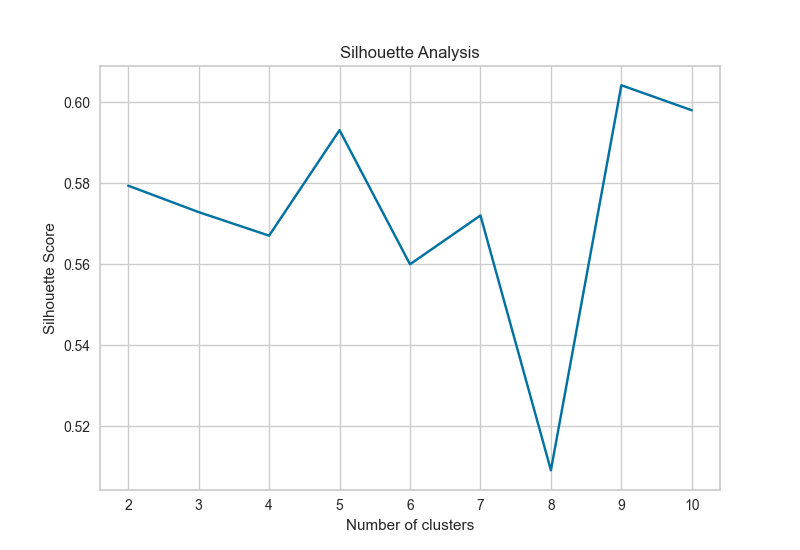
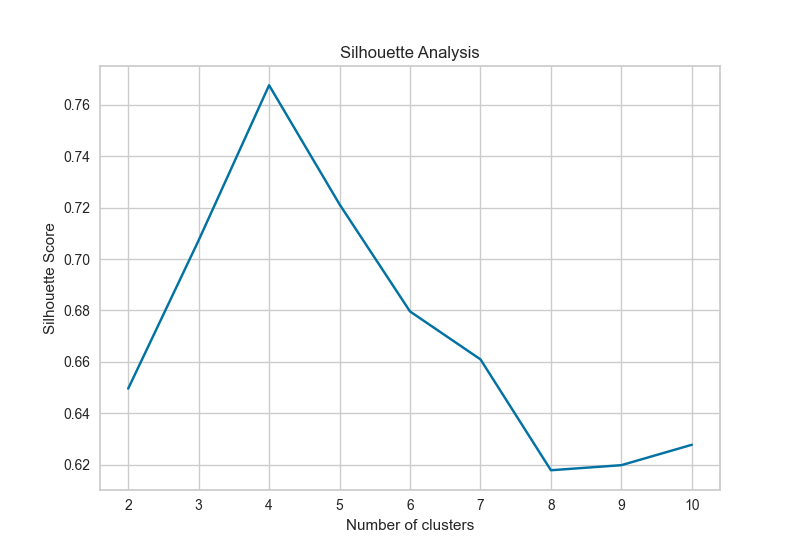
updated clustering graph

diff --git a/Code/kMean.py b/Code/kMean.py
@@ -23,6 +23,10 @@ print(processesedTrainingData)
 
 # Ad a new intensity categoory
 '''
+    'Low': lambda x: x < 1,
+    'Medium': lambda x: (1 <= x) & (x < 2),
+    'High': lambda x: 2 <= x,
+'''
 intensityCategory = {
     'very light': lambda x: x < 0.5,
     'light': lambda x: (0.5 <= x) & (x < 1),
@@ -38,7 +42,11 @@ for category, condition in intensityCategory.items():
 
 print(processesedTrainingData[['Activity, Exercise or Sport (1 hour)', 'Calories per kg', 'Intensity']])
 print (processesedTrainingData)
-
+'''
+    'Low': 2,
+    'Medium': 1,
+    'High': 0,
+    '''
 intensityMapping = {
     'very light': 1,
     'light': 2,
@@ -70,7 +78,7 @@ processesedTrainingData = processesedTrainingData[processesedTrainingData['Inten
 le = LabelEncoder()
 processesedTrainingData['Intensity'] = le.fit_transform(processesedTrainingData['Intensity'])
 print(processesedTrainingData)
-
+'''
 # Selected the numeric columns for clustering
 # numeric_columns = ['130 lb', '155 lb', '180 lb', '205 lb', 'Calories per kg']
 numeric_columns = ['Calories per kg', 'Intensity']
@@ -97,7 +105,7 @@ plt.ylabel('Silhouette Score')
 plt.show()
 
 # The optimal number of clusters
-optimalK = 3
+optimalK = 4
 
 kmeans = KMeans(n_clusters=optimalK, init='k-means++', max_iter=300, n_init=10, random_state=0)
 kmeans.fit(numeric_data[['Calories per kg', 'Intensity']])
@@ -120,14 +128,14 @@ X_scaled = scaler.fit_transform(X)
 kmeans = KMeans(n_clusters=optimalK, random_state=0)
 kmeans.fit(X)
 y = kmeans.predict(X)
-
+clusterNames = {0:'light', 1:'moderate', 2:'vigorous', 3:'very vigorous'}
 # Plotting the clusters
 for i in range(optimalK):
     cluster = numeric_data[y == i]
 
     print("Cluster ", i, ":", cluster.shape)
 
-    plt.scatter(cluster['Intensity'], cluster['Calories per kg'], label=f'Cluster {i}')
+    plt.scatter(cluster['Intensity'], cluster['Calories per kg'], label=clusterNames[i])
 
 plt.legend()
 plt.xlabel('Intensity')

diff --git a/pages/Unsupervised Training.py b/pages/Unsupervised Training.py
@@ -18,15 +18,15 @@ tab1, tab2, tab3 = st.tabs(['K-Means', 'Hierarchical Clustering', 'difference'])
 with tab1:    
     st.image(Image.open('Documentation/Graphs/K-Mean/Silhouette Analysis.png'))
     st.success('''First we need to determend how many clusters we need.
-               The Silhouette Analysis shows that the score peaks at 9 clusters, but there isn't much difference between 5 and 9
-               So we will use 5 clusters for the K-Means algorithm''')
+               The Silhouette Analysis shows that the score peaks at 4 clusters,
+               so we will use 4 clusters for the K-Means algorithm.''')
     
     st.image(Image.open('Documentation/Graphs/K-Mean/ClusterMap.png'))
     st.success('Next we create a cluster map to visualize the clusters')
 
     st.image(Image.open('Documentation/Graphs/K-Mean/Silhouette plot.png'))
     st.success('The silhouette plot shows that the clusters are well defined')
-    st.success('Silhouette score =  0.5744787941043337')
+    st.success('Silhouette score =  0.768')
     
                 
 with tab2: 
